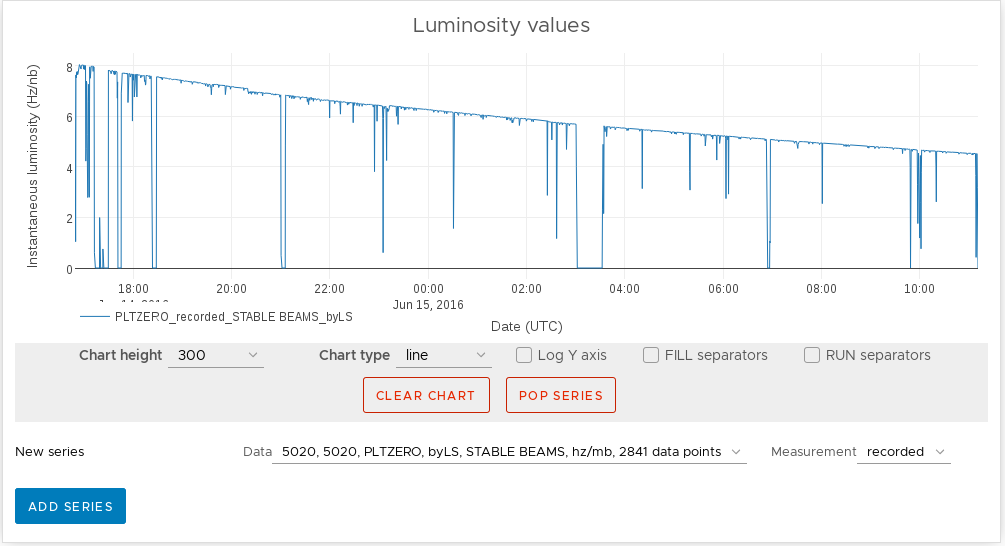
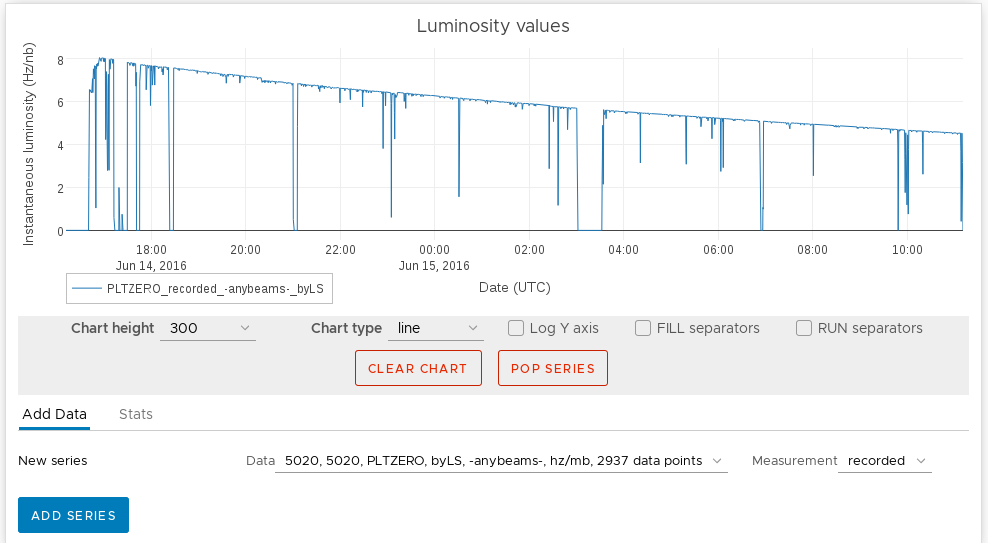
Update documentation for 1.1.0

diff --git a/docs/lumi_inspector.rst b/docs/lumi_inspector.rst
@@ -17,6 +17,7 @@ Charts can be shown/hidden by toggling the switches at the bottom of the page
 
 .. image:: _static/img/totlumi/toggles.png
 
+
 Querying
 --------
 
@@ -28,6 +29,7 @@ Fill in fields in "Time range" and "Options" sections, and hit "QUERY" button.
 Next to the button there is a status indicator which also shows error messages
 in case of failed queries. After successful query, new data is stored in memory
 (see :ref:`memory`).
+
 
 .. _memory:
 
@@ -50,6 +52,7 @@ From this "Memory" tab you have ability to:
 
 * download CSV file for each result by clicking "csv" button next to it
 
+
 .. _lumi-values:
 
 Luminosity values chart
@@ -57,10 +60,11 @@ Luminosity values chart
 
 This chart displays plain queried data values. In contrast to other charts, this
 one is automatically populated (if possible) with recorded luminosity data after
-successful query. You can also add series manually from memory using form at the
-bottom of chart container.
+successful query. You can also add series manually from memory using form in the
+"Add series" tab at the bottom of chart container.
 
 .. image:: _static/img/totlumi/plain.png
+
 
 .. _cumulative:
 
@@ -69,8 +73,9 @@ Cumulative luminosity chart
 
 This chart works almost the same as plain luminosity chart (see
 :ref:`lumi-values`) and the only difference is that it recalculates values to
-add up with time for each series. Use form at the bottom of chart container to
-add series.
+add up with time for each series. Use form in the "Add series" tab at the bottom
+of chart container to add series.
+
 
 .. _ratios:
 
@@ -82,6 +87,20 @@ bottom of chart container choose two data series from memory to make ratio and
 click "ADD RATIO" button. When adding series, timestamps of data points might be
 slightly modified to align lumisections.
 
+
+.. _stats:
+
+Stats
+-----
+
+Few statistical numbers for data of each chart can be calculated by clicking
+"RECALCULATE" button in "Stats" tab at the bottom of chart container (see image
+below).
+
+.. image:: _static/img/totlumi/stats.png
+
+
+.. _common:
 
 Common chart controls
 ---------------------

diff --git a/docs/release_log.rst b/docs/release_log.rst
@@ -1,6 +1,18 @@
 Release log
 ===========
 
+1.1
+-----
+
+1.1.0
+^^^^^
+
+2017-04-21
+
+* Add stats calculator for chart series
+* Add normtag autocomplete
+* Make chart editable (titles, legends)
+
 1.0
 -----
 
